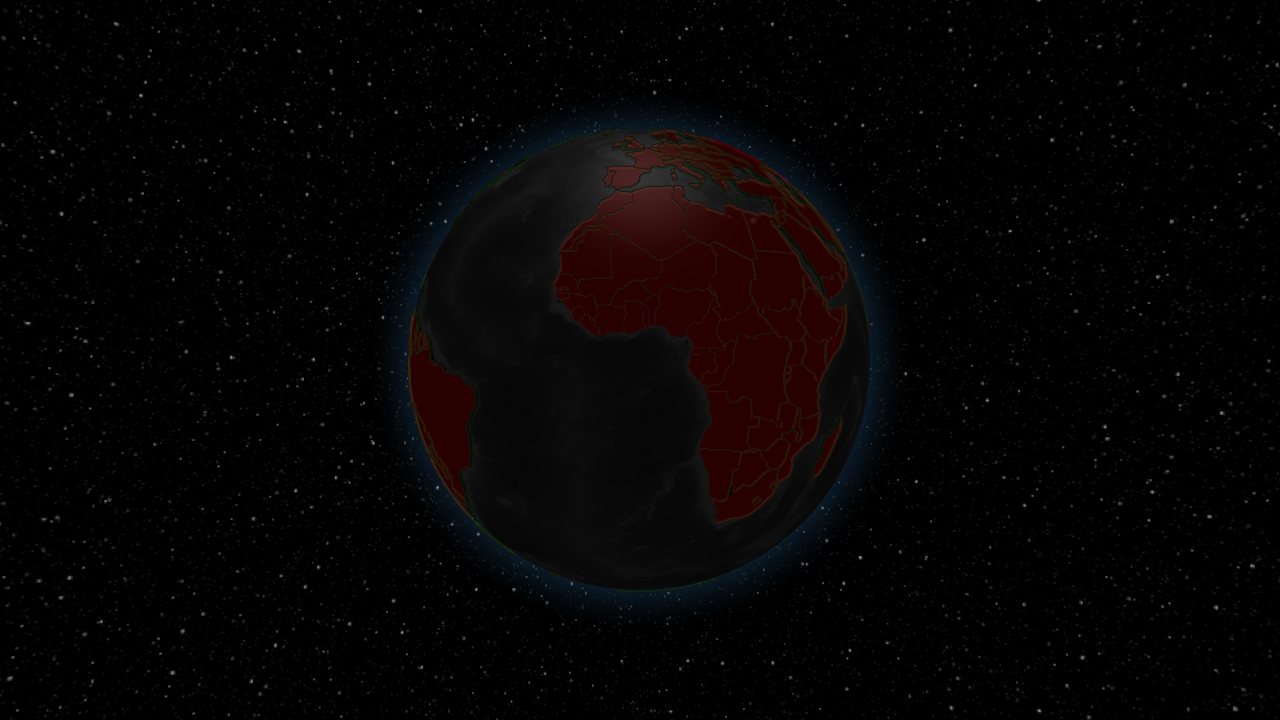
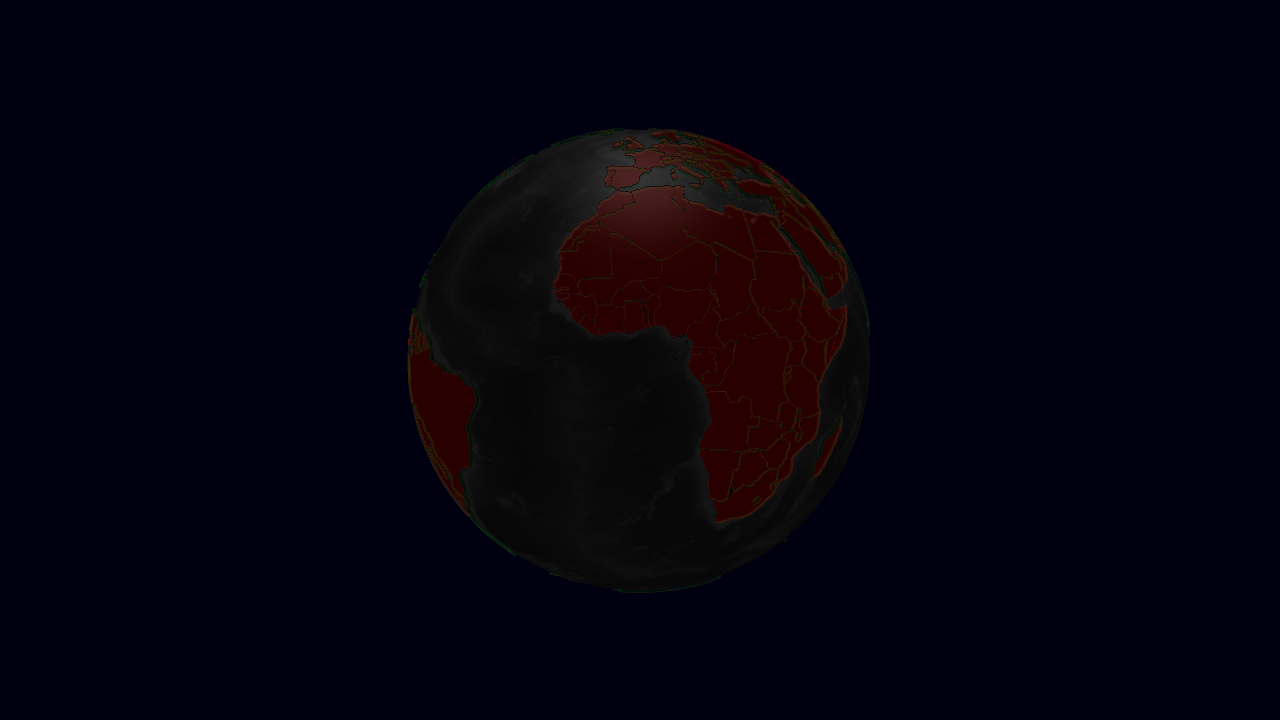
perf: optimize globe rendering for lower GPU usage

diff --git a/src/App.jsx b/src/App.jsx
@@ -34,8 +34,9 @@ function App() {
       {/* Globe Component */}
       <Globe
         ref={globeEl}
+        rendererConfig={{ antialias: false, powerPreference: 'low-power' }}
+        showAtmosphere={false}
         globeImageUrl="https://unpkg.com/three-globe/example/img/earth-dark.jpg"
-        backgroundImageUrl="https://unpkg.com/three-globe/example/img/night-sky.png"
         polygonsData={countries.features}
         polygonAltitude={d => d === hoverD ? 0.05 : 0.01}
         polygonCapColor={d => d === hoverD ? 'rgba(255, 255, 255, 0.3)' : 'rgba(200, 0, 0, 0.2)'}
